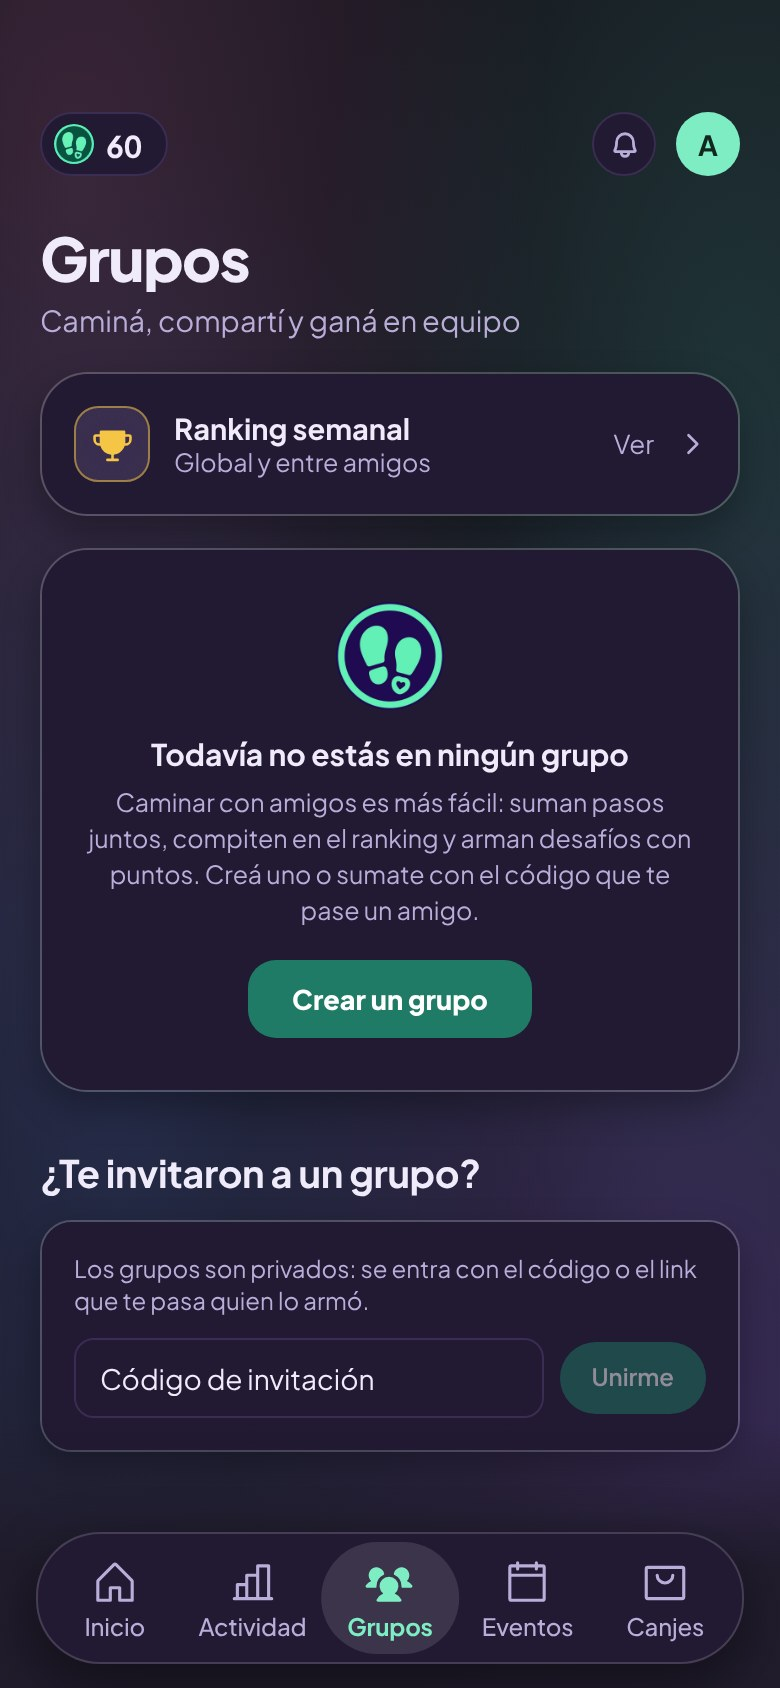
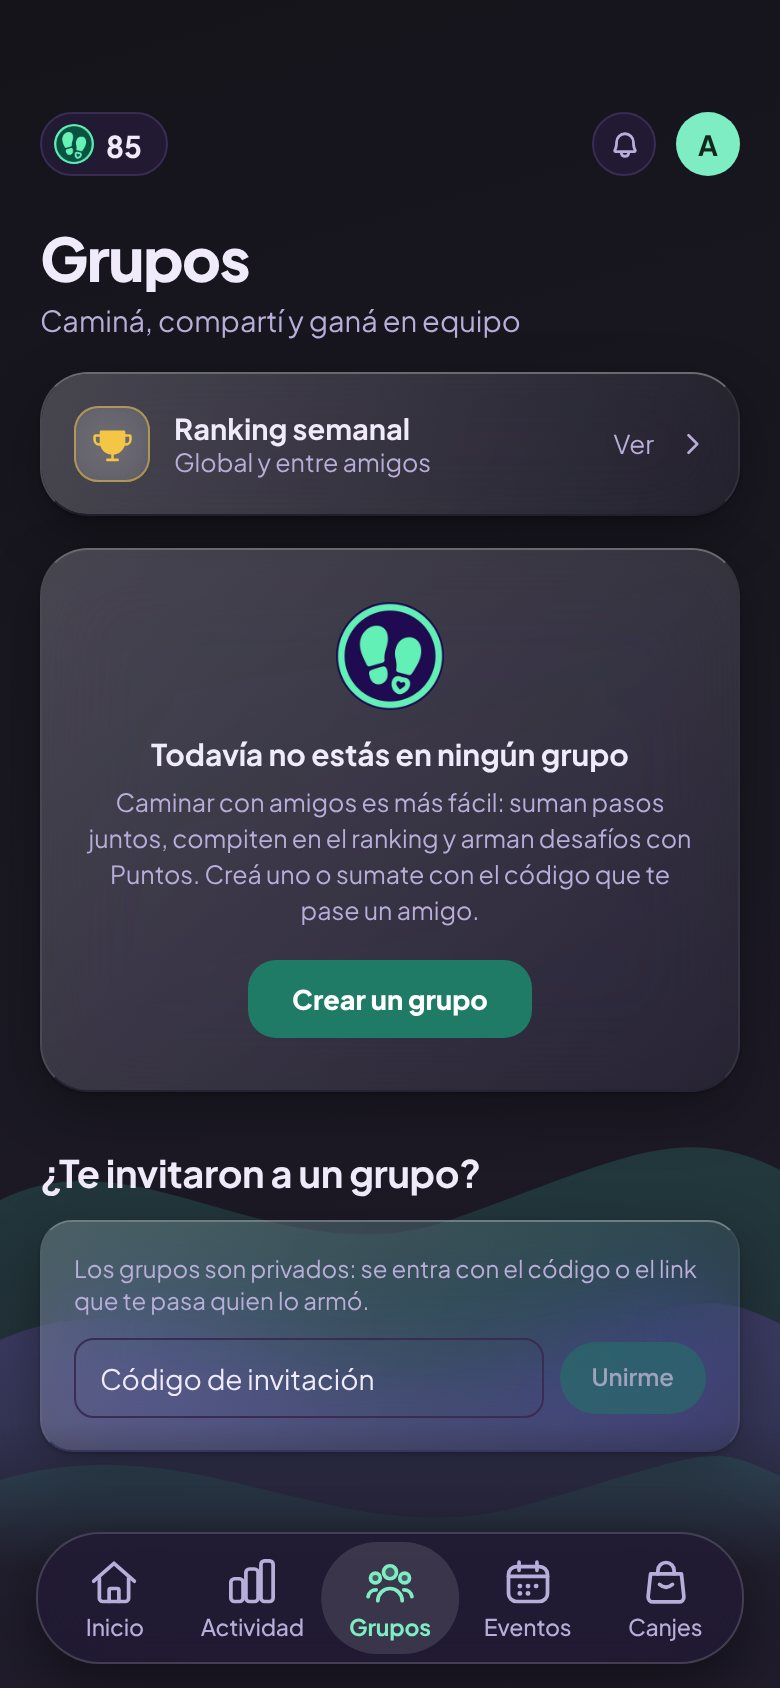
Web: pantallas de la última versión de la app, tarjetas del inicio sin datos inventados y huellas en fila
Capturas nuevas en claro y oscuro (inicio, actividad, grupos, eventos, desafíos, retos, canjes con mapa, ficha, meta). Desafíos y eventos de ejemplo: poleras deportivas, kit de running y cena para dos. Tarjetas del inicio con reglas reales de la app. Huellas del inicio en una fila pareja.

Claude-Session: https://claude.ai/code/session_014wC5QWmB4yxXseCv9gKvEJ

diff --git a/apps/partner/src/components/landing/shared.tsx b/apps/partner/src/components/landing/shared.tsx
@@ -20,26 +20,17 @@ export const CAP = {
   actividad: '/web/cap/actividad.jpg',
   gruposActivo: '/web/cap/grupos-activo.jpg',
   eventos: '/web/cap/eventos.jpg',
+  desafios: '/web/cap/desafios.jpg',
+  retos: '/web/cap/retos.jpg',
+  meta: '/web/cap/meta.jpg',
   canjeResena: '/web/cap/canje-resena.jpg',
   historia: '/web/cap/historia.jpg',
-  retos: '/web/cap/retos.jpg',
-  inicioNuevo: '/web/cap/inicio-nuevo.jpg',
-  metaNueva: '/web/cap/meta-nueva.jpg',
-  desafiosNuevo: '/web/cap/desafios-nuevo.jpg',
-  eventosNuevo: '/web/cap/eventos-nuevo.jpg',
-  fichaDesafio: '/web/cap/ficha-desafio.jpg',
-  fichaEvento: '/web/cap/ficha-evento.jpg',
-  retosNuevo: '/web/cap/retos-nuevo.jpg',
 };
 
 // "Así se ve Camina": cada pantalla en claro y en oscuro (el interruptor de la galería elige cuál se ve).
-const CAP_DARK: Record<string, string> = {
-  [CAP.inicio]: '/web/cap/inicio-dark.jpg',
-  [CAP.canjes]: '/web/cap/canjes-dark.jpg',
-  [CAP.fripaps]: '/web/cap/ficha-fripaps-dark.jpg',
-  [CAP.grupos]: '/web/cap/grupos-dark.jpg',
-  [CAP.actividad]: '/web/cap/actividad-dark.jpg',
-};
+const CAP_DARK: Record<string, string> = Object.fromEntries(
+  [CAP.inicio, CAP.canjes, CAP.fripaps, CAP.grupos, CAP.actividad, CAP.eventos, CAP.desafios, CAP.retos, CAP.meta].map((c) => [c, c.replace('.jpg', '-dark.jpg')]),
+);
 
 type ShotProps = { src: string; alt: string; width: number; height: number; sizes?: string; priority?: boolean };
 export function Shot(props: ShotProps) {
@@ -122,8 +113,8 @@ export function FloatCards({ para = 'gente' }: { para?: 'gente' | 'comercios' })
     );
   }
   const items = [
-    { cls: 'fc1', ico: ICO.pasos, t: '6.000 pasos hoy', d: 'Cada 1.000 pasos suman', e: '+6 puntos' },
-    { cls: 'fc2', ico: ICO.racha, t: 'Tu racha', d: 'Días seguidos con tu meta cumplida', e: '7 días' },
+    { cls: 'fc1', ico: ICO.pasos, t: 'Cada 1.000 pasos', d: 'Se vuelven puntos', e: '1 punto' },
+    { cls: 'fc2', ico: ICO.racha, t: 'Cada día', d: 'Tope diario de puntos', e: 'hasta 20 puntos' },
     { cls: 'fc3', ico: ICO.amigos, t: 'Invitá a un amigo', d: 'Cuando consigue su primer punto', e: '+5 puntos' },
   ];
   return (
@@ -234,13 +225,15 @@ export function Locales() {
 
 export function Galeria() {
   const pant = [
-    ['Tu día en un vistazo', 'Pasos, puntos y los locales cerca tuyo.', CAP.inicio],
-    ['Desafíos', 'Sumate a desafíos con premios y mirá cómo funcionan.', CAP.desafiosNuevo],
-    ['Eventos', 'Experiencias con tus marcas favoritas, con fecha y lugar.', CAP.eventosNuevo],
+    ['Tu día en un vistazo', 'Tus pasos de hoy, tus puntos y tu racha.', CAP.inicio],
+    ['Actividad', 'Tu semana, tu meta y tu racha.', CAP.actividad],
+    ['Grupos', 'Caminá en equipo con tus amigos.', CAP.grupos],
+    ['Eventos', 'Experiencias con fecha y lugar.', CAP.eventos],
+    ['Desafíos', 'Sumate a desafíos con premios.', CAP.desafios],
+    ['Retos Camina', 'Metas extra que suman Puntos.', CAP.retos],
     ['Canjear', 'Buscá comercios y mirá sus premios.', CAP.canjes],
     ['La ficha del local', 'Fotos, horarios, redes y premios.', CAP.fripaps],
-    ['Grupos', 'Caminá en equipo y sumá con tus amigos.', CAP.grupos],
-    ['Actividad', 'Tu semana, tu meta y tu racha.', CAP.actividad],
+    ['Tu meta de pasos', 'Elegís cuántos pasos por día.', CAP.meta],
   ] as const;
   return (
     <section className="lp-sec alt" id="app" data-modo="oscuro">
@@ -256,7 +249,7 @@ export function Galeria() {
           </figure>
         ))}
       </div>
-      <p className="wrap gal-nota">Pasos, puntos y grupos son datos de ejemplo. Los locales y sus premios son reales.</p>
+      <p className="wrap gal-nota">Los pasos y puntos son de ejemplo. Los eventos y desafíos son ejemplos de lo que puede haber. Los locales y sus premios son reales.</p>
     </section>
   );
 }
@@ -521,9 +514,8 @@ export function EquipoRetos() {
             {
               t: 'Grupos',
               d: 'Creá un grupo con amigos o familia, sumen pasos juntos y miren el ranking de la semana. Es más fácil salir a caminar cuando hay con quién.',
-              img: CAP.gruposActivo,
-              alt: 'Pantalla de un grupo con ranking de pasos',
-              tag: 'Ejemplo ilustrativo con datos de prueba',
+              img: CAP.grupos,
+              alt: 'Pantalla de Grupos con el ranking semanal y la opción de crear un grupo',
             },
             {
               t: 'Retos Camina',
@@ -535,8 +527,8 @@ export function EquipoRetos() {
               t: 'Eventos y sorteos',
               d: 'Locales y Camina publican eventos y sorteos dentro de la app. Caminá, cumplí el requisito y participá.',
               img: CAP.eventos,
-              alt: 'Pantalla de eventos y sorteos',
-              tag: 'Ejemplo ilustrativo con datos de prueba',
+              alt: 'Pantalla de eventos de ejemplo',
+              tag: 'Ejemplo de lo que puede haber',
             },
           ]}
         />
@@ -560,8 +552,8 @@ export function PublicidadComercio() {
               t: 'Tu local, frente a quienes caminan',
               d: 'Tu evento o sorteo aparece en la app de Camina. Podés pedir un requisito de pasos para participar y así atraer gente que ya sale a caminar.',
               img: CAP.eventos,
-              alt: 'Pantalla de eventos y sorteos de la app',
-              tag: 'Ejemplo ilustrativo con datos de prueba',
+              alt: 'Pantalla de eventos de ejemplo de la app',
+              tag: 'Ejemplo de lo que puede haber',
             },
           ]}
         />
@@ -696,19 +688,19 @@ export function Fidelidad({ para }: { para: 'gente' | 'comercios' }) {
   );
 }
 
-type Tile = { t: string; d: string; ico: keyof typeof ICO; span: 's2' | 's3' | 's4'; pts?: string; shot?: string; alt?: string; row2?: boolean };
+type Tile = { t: string; d: string; ico: keyof typeof ICO; span: 's2' | 's3' | 's4'; pts?: string; shot?: string; alt?: string; row2?: boolean; fill?: boolean };
 const TILES: Tile[] = [
-  { t: 'Retos Camina', d: 'Metas extra además de tus pasos de cada día: cumplilas y ganás más puntos.', ico: 'meta', span: 's3', shot: CAP.retosNuevo, alt: 'Pantalla de Inicio con los Retos Camina', row2: true },
-  { t: 'Tu meta, a tu medida', d: 'Elegís cuántos pasos querés hacer por día. Te recomendamos 5.000 para arrancar y la cambiás cuando quieras.', ico: 'pasos', span: 's3', shot: CAP.metaNueva, alt: 'Pantalla para elegir la meta de pasos por día', row2: true },
+  { t: 'Retos Camina', d: 'Metas extra además de tus pasos de cada día: cumplilas y ganás más puntos.', ico: 'meta', span: 's3', shot: CAP.retos, alt: 'Pantalla de Inicio con los Retos Camina', row2: true },
+  { t: 'Tu meta, a tu medida', d: 'Elegís cuántos pasos querés hacer por día. Te recomendamos 5.000 para arrancar y la cambiás cuando quieras.', ico: 'pasos', span: 's3', shot: CAP.meta, alt: 'Pantalla para elegir la meta de pasos por día', row2: true },
   { t: 'Invitá amigos', d: 'Compartí tu link: recibís 5 puntos cuando tu amigo se registra y consigue su primer punto.', ico: 'amigos', span: 's2', pts: '+5 puntos' },
   { t: 'Historias que suman', d: 'Subí una historia a Instagram y ganá 5 puntos cuando el equipo de Camina la aprueba.', ico: 'camara', span: 's2', pts: '+5 puntos' },
   { t: 'Compartí tu progreso', d: 'Tarjetas con tu día, tu semana o tu mes, y el ranking de tu grupo, listas para mandar o subir.', ico: 'grafico', span: 's2' },
   { t: 'Tu racha y tu calendario', d: 'Mirás tus días con objetivo cumplido, tu semana en un gráfico y cuánto te falta para la meta.', ico: 'calendario', span: 's2' },
   { t: 'Grupos y ranking', d: 'Caminá en equipo con tus amigos, con meta semanal compartida y ranking.', ico: 'grupo', span: 's2' },
   { t: 'Claro, oscuro y cristal a tu gusto', d: 'Elegís el modo de la app y cuánto vidrio querés ver, desde sólido hasta cristal.', ico: 'vidrio', span: 's2' },
-  { t: 'Desafíos y eventos', d: 'Sumate a desafíos y eventos con fecha y lugar, y mirá cómo funciona cada uno antes de participar.', ico: 'calendario', span: 's3', shot: CAP.desafiosNuevo, alt: 'Pantalla de Desafíos', row2: true },
-  { t: 'Tu ubicación, solo cuando la necesitás', d: 'La usamos en el momento para mostrarte lo que hay cerca y no la guardamos. Tampoco vendemos tus datos.', ico: 'ubicacion', span: 's3' },
-  { t: 'Canjeá tus puntos', d: 'Cuando quieras usar tus puntos, el local te confirma el canje con un código de 6 números.', ico: 'regalo', span: 's3' },
+  { t: 'Desafíos y eventos', d: 'Sumate a desafíos y eventos con fecha y lugar, y mirá cómo funciona cada uno antes de participar.', ico: 'calendario', span: 's3', shot: CAP.desafios, alt: 'Pantalla de Desafíos', row2: true },
+  { t: 'Tu ubicación, solo cuando la necesitás', d: 'La usamos en el momento para mostrarte lo que hay cerca y no la guardamos. Tampoco vendemos tus datos.', ico: 'ubicacion', span: 's3', fill: true },
+  { t: 'Canjeá tus puntos', d: 'Cuando quieras usar tus puntos, el local te confirma el canje con un código de 6 números.', ico: 'regalo', span: 's3', fill: true },
 ];
 
 export function MasParaGente() {
@@ -719,7 +711,7 @@ export function MasParaGente() {
         <p className="lead">Lo que Camina te da cada día, además de los puntos.</p>
         <ul className="bento">
           {TILES.map((x, i) => (
-            <InView as="li" key={x.t} delay={(i % 3) * 90} className={`gl ${x.span}${x.shot ? ' has-shot' : ''}${x.row2 ? ' row2' : ''}`}>
+            <InView as="li" key={x.t} delay={(i % 3) * 90} className={`gl ${x.span}${x.shot ? ' has-shot' : ''}${x.row2 ? ' row2' : ''}${x.fill ? ' fill' : ''}`}>
               <div className="gl-txt">
                 <span className="gl-ico">{ICO[x.ico]}</span>
                 <h3>{x.t}</h3>
@@ -732,7 +724,7 @@ export function MasParaGente() {
             </InView>
           ))}
         </ul>
-        <p className="bento-nota">Las capturas usan datos de ejemplo.</p>
+        <p className="bento-nota">Los pasos, los puntos, los eventos y los desafíos de las capturas son ejemplos de lo que puede haber.</p>
       </div>
     </section>
   );

diff --git a/apps/partner/src/components/landing/Trail.tsx b/apps/partner/src/components/landing/Trail.tsx
@@ -1,11 +1,13 @@
 // Camino de huellas que se repite: pie izquierdo y derecho alternados, apuntando hacia donde se camina,
 // siguiendo una curva suave. Solo CSS (animación escalonada), sin JavaScript en el navegador.
-type Props = { n?: number; className?: string };
+type Props = { n?: number; className?: string; flat?: boolean };
 
-export default function Trail({ n = 12, className = '' }: Props) {
+export default function Trail({ n = 12, className = '', flat = false }: Props) {
   // curva: x avanza de 0 a 100, y ondula; viewBox 1000 x 400
   const pts: { x: number; y: number; ang: number; der: boolean }[] = [];
-  const f = (t: number) => ({ x: 60 + t * 880, y: 300 - t * 170 + Math.sin(t * Math.PI * 1.5) * 38 });
+  const f = flat
+    ? (t: number) => ({ x: 40 + t * 1520, y: 86 + Math.sin(t * Math.PI * 2.5) * 16 })
+    : (t: number) => ({ x: 60 + t * 880, y: 300 - t * 170 + Math.sin(t * Math.PI * 1.5) * 38 });
   for (let i = 0; i < n; i++) {
     const t = i / (n - 1);
     const a = f(t);
@@ -24,7 +26,7 @@ export default function Trail({ n = 12, className = '' }: Props) {
     });
   }
   return (
-    <svg className={`trail ${className}`} viewBox="0 0 1000 400" aria-hidden="true" preserveAspectRatio="xMidYMid meet">
+    <svg className={`trail ${className}`} viewBox={flat ? '0 0 1600 170' : '0 0 1000 400'} aria-hidden="true" preserveAspectRatio={flat ? 'xMidYMid slice' : 'xMidYMid meet'}>
       {pts.map((p, i) => (
         <g key={i} transform={`translate(${p.x.toFixed(1)} ${p.y.toFixed(1)}) rotate(${p.ang.toFixed(1)})${p.der ? ' scale(-1 1)' : ''}`}>
           <image

diff --git a/apps/partner/src/components/landing/glass.css b/apps/partner/src/components/landing/glass.css
@@ -160,3 +160,32 @@
 .bento-nota{margin-top:26px}
 .lp-sec .wrap>.lead{margin-bottom:0}
 @media (max-width:640px){.lp .lp-nav{position:absolute}}
+
+/* huellas del inicio: una fila pareja pegada al borde de abajo, que se desvanece a los costados y no pasa por detrás de los textos */
+.lp .hero-trail{inset:auto 0 18px 0;height:96px;opacity:.7;-webkit-mask-image:linear-gradient(90deg,transparent,#000 14%,#000 86%,transparent);mask-image:linear-gradient(90deg,transparent,#000 14%,#000 86%,transparent);filter:drop-shadow(0 0 10px rgba(127,237,196,.45))}
+.lp .lp-hero{padding-bottom:140px}
+
+/* tarjetas del héroe: chicas, pegadas a los bordes del celular y sin tapar el aro ni los textos */
+.lp .fcard{max-width:196px;padding:10px 14px 10px 10px;font-size:12.5px}
+.lp .fcard b{font-size:13.5px}
+.fc-ico{width:38px;height:38px;border-radius:12px}
+.lp .fc1{left:-4%;top:6%}
+.lp .fc2{right:-8%;top:48%}
+.lp .fc3{left:-2%;top:80%}
+@media (max-width:640px){
+  .lp .fcard{display:none}
+  .lp .lp-hero{padding-top:160px}
+  .stage{height:500px}
+}
+
+/* las tarjetas quedan al costado del celular: solo le rozan el borde */
+@media (min-width:641px){
+  .lp .fcard{max-width:178px}
+  .lp .fc1{left:auto;right:calc(50% + 122px);top:12%}
+  .lp .fc2{right:auto;left:calc(50% + 122px);top:44%}
+  .lp .fc3{left:auto;right:calc(50% + 122px);top:74%}
+}
+@media (min-width:641px){.lp .fcard{width:190px;max-width:190px}}
+.gl.fill{justify-content:center}
+.gl.fill h3{font-size:26px}
+.gl.fill p{font-size:17px}

diff --git a/apps/partner/src/components/landing/GentePage.tsx b/apps/partner/src/components/landing/GentePage.tsx
@@ -13,7 +13,7 @@ export default function GentePage() {
       <Nav activo="gente" />
       <main>
         <section className="lp-hero">
-          <Trail className="hero-trail" n={13} />
+          <Trail className="hero-trail" n={22} flat />
           <div className="wrap hero-grid">
             <div className="copy">
               <Kinetic as="h1" text="Caminá, sumá puntos y canjealos en tu barrio." />
@@ -28,7 +28,7 @@ export default function GentePage() {
             <div className="stage">
               <Parallax speed={0.06}>
                 <span className="hero-glow" aria-hidden="true" />
-                <div className="phone hero-phone"><Shot src={CAP.inicioNuevo} alt="Pantalla de inicio de Camina" width={780} height={1688} priority sizes="280px" /></div>
+                <div className="phone hero-phone"><Shot src={CAP.inicio} alt="Pantalla de inicio de Camina" width={780} height={1688} priority sizes="280px" /></div>
               </Parallax>
               <FloatCards />
             </div>
